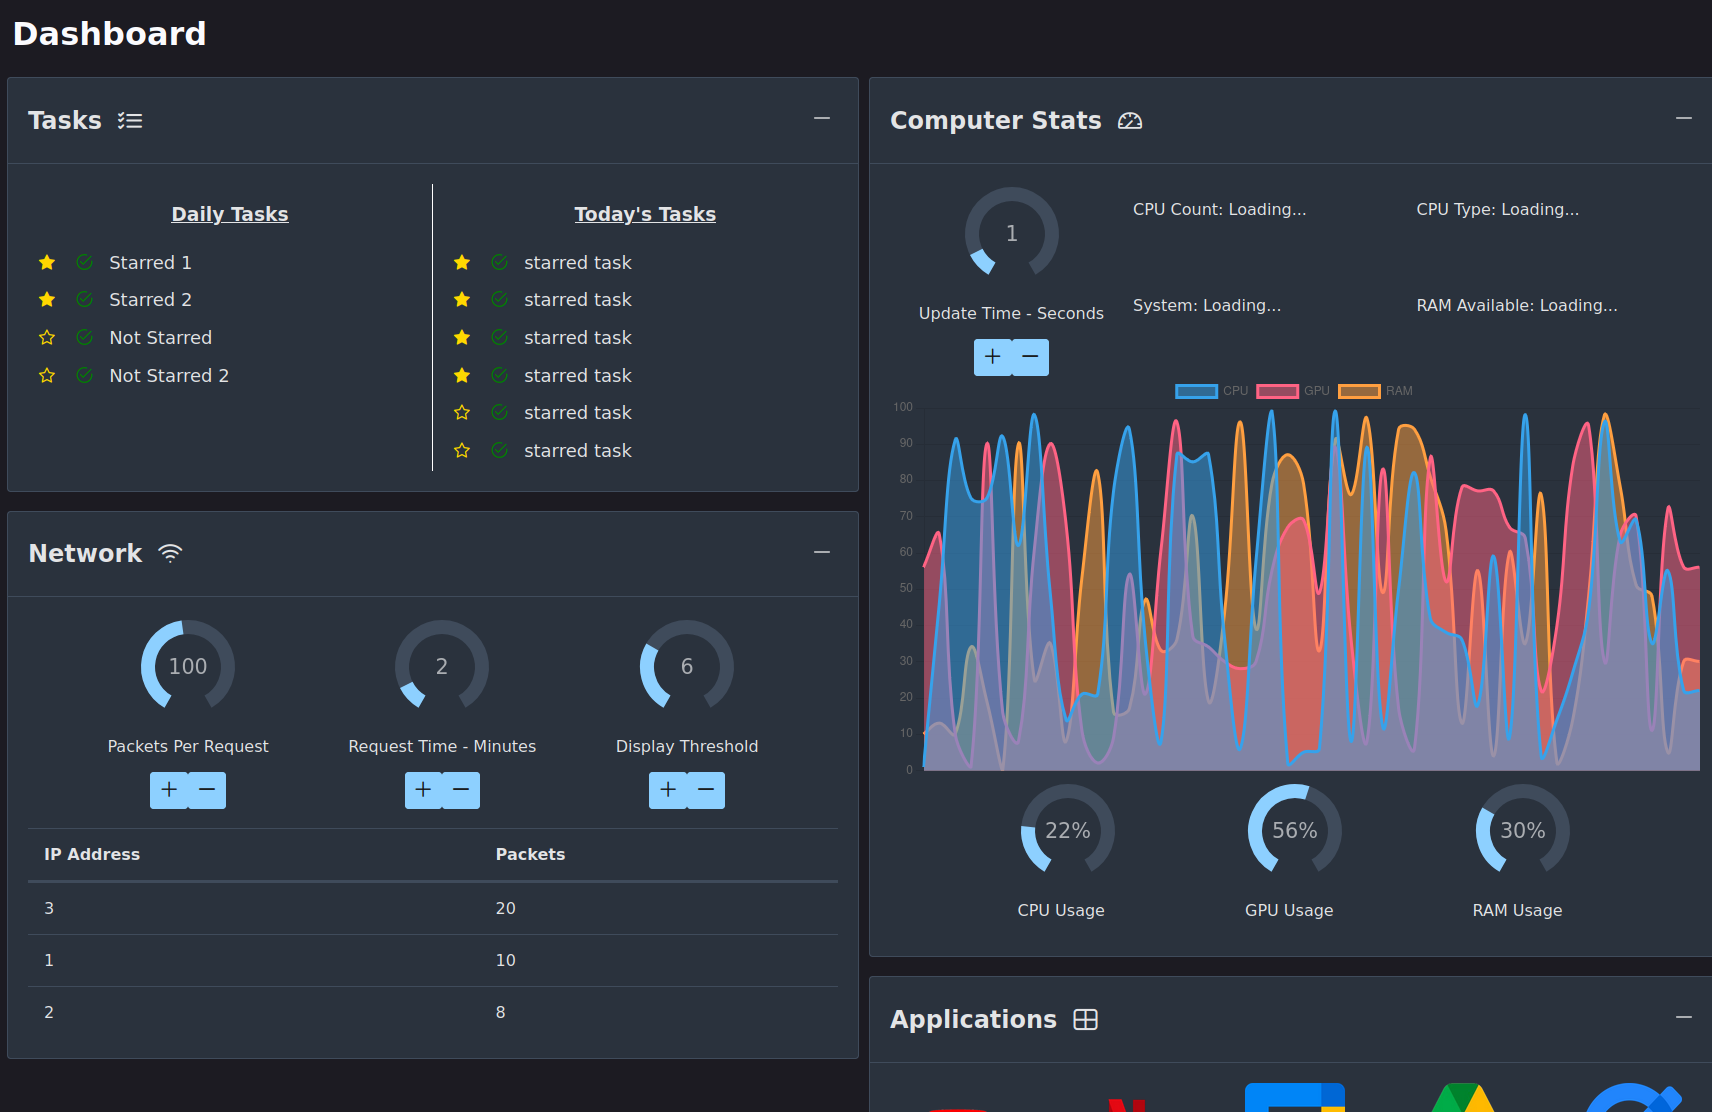
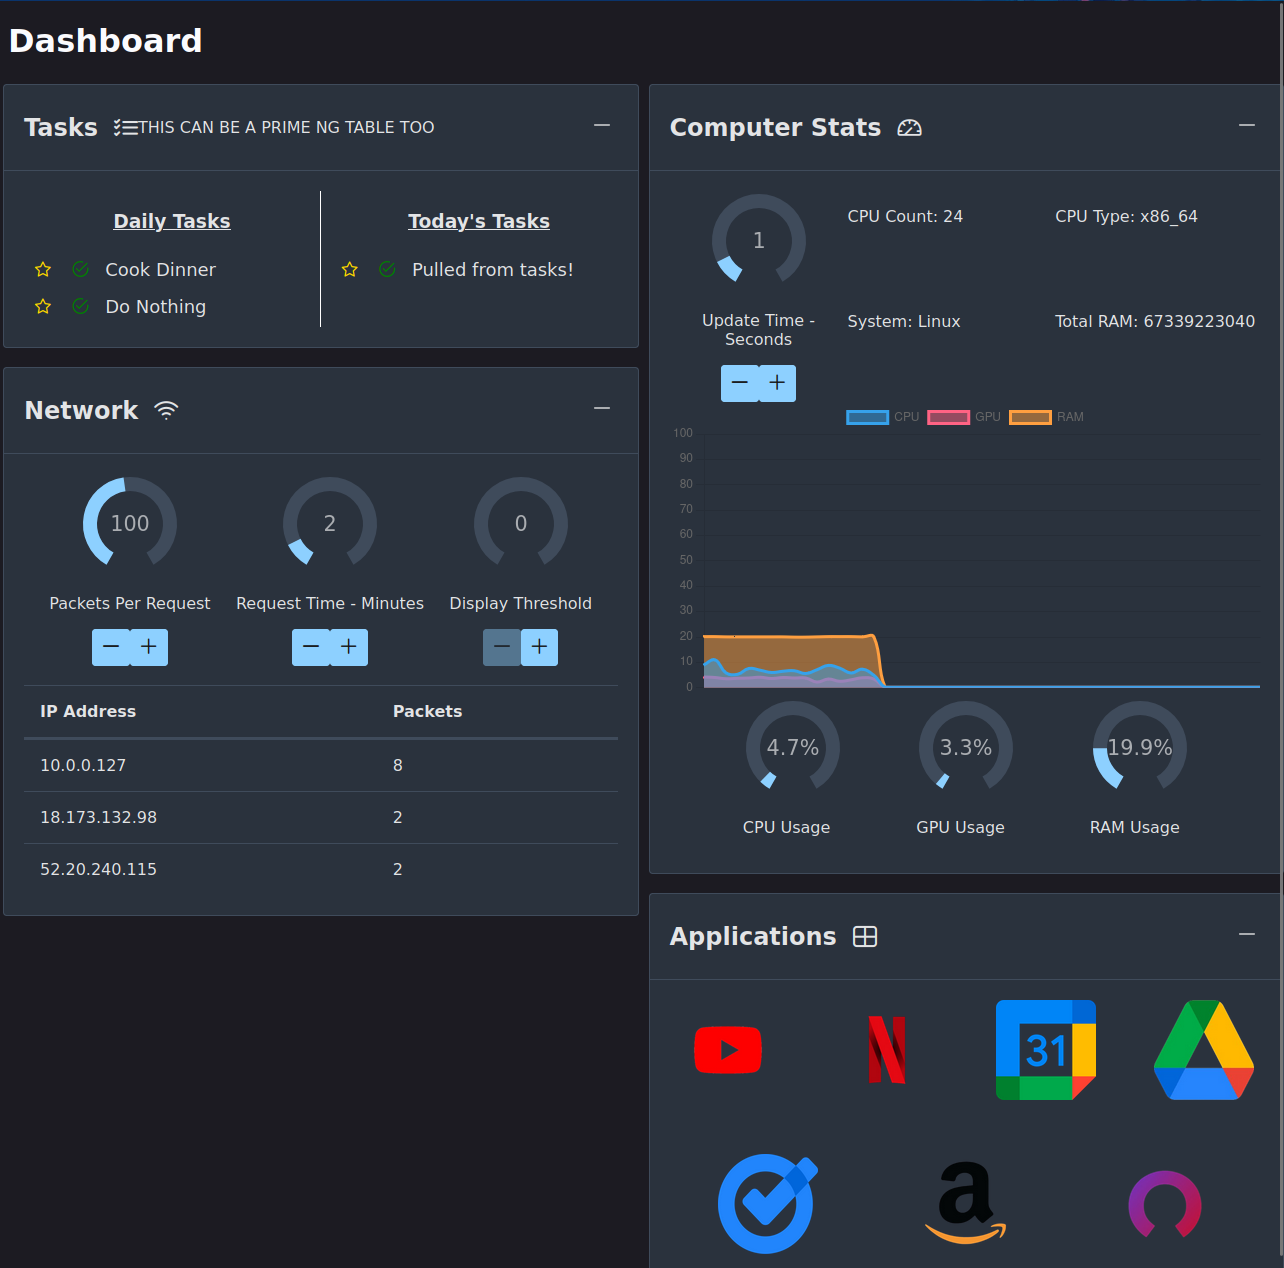
New pic who dis

diff --git a/src/app/computer-stats/computer-stats.component.ts b/src/app/computer-stats/computer-stats.component.ts
@@ -1,6 +1,6 @@
 /* eslint-disable @typescript-eslint/no-explicit-any */
 import { Component } from '@angular/core';
-import { repeat, Subscription } from 'rxjs';
+import { catchError, of, repeat, Subscription } from 'rxjs';
 import { BackendService } from '../Services/backend.service';
 
 enum TableCategory {
@@ -15,8 +15,6 @@ enum TableCategory {
   styleUrl: './computer-stats.component.scss'
 })
 export class ComputerStatsComponent {
-  UNDEFINED_TEXT: string = 'Loading...';
-  NULL_TEXT: string = 'Data Not Found';
   MIN_UPDATE_TIME: number = .5;
   MAX_UPDATE_TIME: number = 5;
   TIME_UPDATE_INCREMENT: number = .5;
@@ -28,10 +26,10 @@ export class ComputerStatsComponent {
 
   // https://primeng.org/chart
   // TODO: Table slows down application when closed pause it when tab closes??
-  cpuCountText: string;
-  cpuTypeText: string;
-  systemText: string;
-  totalRamText: string;
+  cpuCountText: string | null | undefined;
+  cpuTypeText: string | null | undefined;
+  systemText: string | null | undefined;
+  totalRamText: string | null | undefined;
 
   latestCpuUsage: number = 0;
   lastestGpuUsage: number = 0;
@@ -87,14 +85,17 @@ export class ComputerStatsComponent {
 
   constructor(backendService: BackendService) {
     // Assign Static Values Using Backend Service
-    this.cpuCountText = this.UNDEFINED_TEXT;
-    this.cpuTypeText = this.UNDEFINED_TEXT;
-    this.systemText = this.UNDEFINED_TEXT;
-    this.totalRamText = this.UNDEFINED_TEXT;
+    this.cpuCountText = undefined;
+    this.cpuTypeText = undefined;
+    this.systemText = undefined;
+    this.totalRamText = undefined;
 
     this.backendService = backendService;
       // Listen for new computer stats data
-      this.currentSubscription = backendService.computerData$.pipe(repeat({delay: this.updateTimeInSeconds * 1000})).subscribe((data: any) => {
+      this.currentSubscription = backendService.computerData$.pipe(
+        repeat({delay: this.updateTimeInSeconds * 1000}),
+      catchError(() => of(null)))
+      .subscribe((data: any) => {
         this.handleIncomingServiceData(data);
       });
   }
@@ -105,10 +106,10 @@ export class ComputerStatsComponent {
    */
   handleIncomingServiceData(data?: any | null) {
     if (!data) {
-      this.cpuCountText = this.NULL_TEXT;
-      this.systemText = this.NULL_TEXT;
-      this.cpuTypeText = this.NULL_TEXT;
-      this.totalRamText = this.NULL_TEXT;
+      this.cpuCountText = null;
+      this.systemText = null;
+      this.cpuTypeText = null;
+      this.totalRamText = null;
       return;
     }
     this.cpuCountText = data['cpu_count'].toString();
@@ -125,7 +126,9 @@ export class ComputerStatsComponent {
   updateTableObservable() {
     this.currentSubscription.unsubscribe();
     // Listen for new computer stats data
-    this.currentSubscription = this.backendService.computerData$.pipe(repeat({delay: this.updateTimeInSeconds * 1000})).subscribe((data: any) => {
+    this.currentSubscription = this.backendService.computerData$.pipe(
+      repeat({delay: this.updateTimeInSeconds * 1000}),
+      catchError(() => of(null))).subscribe((data: any) => {
       this.handleIncomingServiceData(data);
     });
   }

diff --git a/src/app/tasks-panel/tasks-panel.component.ts b/src/app/tasks-panel/tasks-panel.component.ts
@@ -1,7 +1,7 @@
 /* eslint-disable @typescript-eslint/no-explicit-any */
 import {Component} from '@angular/core';
 import { BackendService } from '../Services/backend.service';
-import { take } from 'rxjs';
+import { catchError, of, take } from 'rxjs';
 
 
 export class Task{
@@ -22,11 +22,11 @@ export class TasksPanelComponent {
   DAILY_TASK_TITLE: string = 'Dailies';
 
   // NOTE COULD HAVE SOMETHING LIKE A STREAK FOR DAILIES
-  dailyTasks: Task[] = [];
-  todaysTasks: Task[] = [];
+  dailyTasks: Task[] | undefined | null = [];
+  todaysTasks: Task[] | undefined | null = [];
 
   constructor(backendService: BackendService) {
-    backendService.tasksData$.pipe(take(1)).subscribe((data: any) => {
+    backendService.tasksData$.pipe(take(1), catchError(() => of(null))).subscribe((data: any) => {
       this.processIncomingTaskData(data);
     });
   }
@@ -36,28 +36,33 @@ export class TasksPanelComponent {
    * @param {any | null} data The new data coming in 
    */
   processIncomingTaskData(data: any | null) {
-    this.dailyTasks = [];
-    this.todaysTasks = [];
-
     if (!data) {
+      this.dailyTasks = null;
+      this.todaysTasks = null;
       return;
     }
     // Daily
     const dailyList: any = data.find((list: any) => list[0]['title'] === this.DAILY_TASK_TITLE);
     if (dailyList) {
+      this.dailyTasks = [];
       dailyList[1].forEach((task: any) => {
-        this.dailyTasks.push(new Task(false, task['title']));
+        this.dailyTasks!.push(new Task(false, task['title']));
       });
       this.dailyTasks = this.sortTasks(this.dailyTasks);
+    } else {
+      this.dailyTasks = null;
     }
 
     // Todays
     const todaysList: any = data.find((list: any) => list[0]['title'] !== this.DAILY_TASK_TITLE);
     if (todaysList) {
+      this.todaysTasks = [];
       todaysList[1].forEach((task: any) => {
-        this.todaysTasks.push(new Task(false, task['title']));
+        this.todaysTasks!.push(new Task(false, task['title']));
       });
       this.todaysTasks = this.sortTasks(this.todaysTasks);
+    } else {
+      this.todaysTasks = null;
     }
   }
 
@@ -81,7 +86,10 @@ export class TasksPanelComponent {
    * @param {number} index The index of the task 
    */
   onClickStar(isDaily: boolean, index: number): void {
-    const target: Task[] = isDaily ? this.dailyTasks : this.todaysTasks;
+    const target: Task[] | null | undefined = isDaily ? this.dailyTasks : this.todaysTasks;
+    if (!target) {
+      return;
+    }
     target[index].starred = !target[index].starred
     this.sortTasks(target);
   }
@@ -92,7 +100,10 @@ export class TasksPanelComponent {
    * @param {number} index The index of the task
    */
   onCheck(isDaily: boolean, index: number): void {
-    const target: Task[] = isDaily ? this.dailyTasks : this.todaysTasks;
+    const target: Task[] | null | undefined = isDaily ? this.dailyTasks : this.todaysTasks;
+    if (!target) {
+      return;
+    }
     target.splice(index, 1);
   }
 }

diff --git a/src/app/computer-stats/computer-stats.component.html b/src/app/computer-stats/computer-stats.component.html
@@ -21,10 +21,21 @@
 
             <!-- CPU Count, CPU Type, System -->
             <div class="static-data">
-                <p>CPU Count: {{cpuCountText}}</p>
-                <p>CPU Type: {{cpuTypeText}}</p>
-                <p>System: {{systemText}}</p>
-                <p>Total RAM: {{totalRamText}}</p>
+                <p *ngIf="cpuCountText">CPU Count: {{cpuCountText}}</p>
+                <p *ngIf="cpuCountText === undefined">CPU Count: <i class="pi pi-spinner pi-spin" title="Loading"></i></p>
+                <p *ngIf="cpuCountText === null">CPU Count: <i class="pi pi-exclamation-triangle" title="Unable to Load CPU Count"></i></p>
+
+                <p *ngIf="cpuTypeText">CPU Type: {{cpuTypeText}}</p>
+                <p *ngIf="cpuTypeText === undefined">CPU Type: <i class="pi pi-spinner pi-spin" title="Loading"></i></p>
+                <p *ngIf="cpuTypeText === null">CPU Type: <i class="pi pi-exclamation-triangle" title="Unable to Load CPU Type"></i></p>
+
+                <p *ngIf="systemText">System: {{systemText}}</p>
+                <p *ngIf="systemText === undefined">System: <i class="pi pi-spinner pi-spin" title="Loading"></i></p>
+                <p *ngIf="systemText === null">System: <i class="pi pi-exclamation-triangle" title="Unable to Load System Type"></i></p>
+                
+                <p *ngIf="totalRamText">Total RAM: {{totalRamText}}</p>
+                <p *ngIf="totalRamText === undefined">Total RAM: <i class="pi pi-spinner pi-spin" title="Loading"></i></p>
+                <p *ngIf="totalRamText === null">Total RAM: <i class="pi pi-exclamation-triangle" title="Unable to Load Total RAM"></i></p>
             </div>
         </div>
         <div class="dynamic-data">

diff --git a/src/app/network-stats/network-stats.component.ts b/src/app/network-stats/network-stats.component.ts
@@ -1,7 +1,7 @@
 /* eslint-disable @typescript-eslint/no-explicit-any */
 import { Component } from '@angular/core';
 import { BackendService } from '../Services/backend.service';
-import { repeat, Subscription } from 'rxjs';
+import { catchError, of, repeat, Subscription } from 'rxjs';
 
 export class IpData {
   ip: string;
@@ -36,14 +36,14 @@ export class NetworkStatsComponent {
   backendService: BackendService;
   currentSubscription: Subscription;
 
-  topIps: IpData[] = [];
+  topIps: IpData[] | null | undefined = undefined;
   allIps: IpData[] = [];
 
   constructor(backendService: BackendService) {
     this.backendService = backendService;
     // Start Network Subscription
     this.currentSubscription = backendService.networkData$.pipe(
-      repeat({delay: this.updateTimeInMinutes * 1000 * 60})
+      repeat({delay: this.updateTimeInMinutes * 1000 * 60}), catchError(() => of(null)),
     ).subscribe((data: unknown) => {
       this.processIncomingNetworkData(data);
     });
@@ -55,6 +55,7 @@ export class NetworkStatsComponent {
    */
   processIncomingNetworkData(data?: any | null) {
     if (!data) {
+      this.topIps = null;
       return;
     }
     this.allIps = [];
@@ -79,7 +80,7 @@ export class NetworkStatsComponent {
     this.currentSubscription.unsubscribe();
     // Update Subscription
     this.currentSubscription = this.backendService.networkData$.pipe(
-      repeat({delay: this.updateTimeInMinutes * 1000 * 60})
+      repeat({delay: this.updateTimeInMinutes * 1000 * 60}), catchError(() => of(null)),
     ).subscribe((data: any) => {
       this.processIncomingNetworkData(data);
     });

diff --git a/src/app/network-stats/network-stats.component.html b/src/app/network-stats/network-stats.component.html
@@ -49,7 +49,7 @@
         </div>
     </div>
 <br>
-    <p-table [value]="topIps">
+    <p-table *ngIf="topIps" [value]="topIps">
         <ng-template pTemplate="header">
             <tr>
                 <th>IP Address</th>
@@ -63,5 +63,8 @@
             </tr>
         </ng-template>
     </p-table>
-    
+
+    <i *ngIf="topIps === undefined" class="pi pi-spinner pi-spin" style="font-size: 2.5rem" title="Loading Network Packets"></i>
+
+    <i *ngIf="topIps === null" class="pi pi-exclamation-triangle" style="font-size: 2.5rem; position: relative; left: 50%;" title="Unable to Load Network Packets"></i>
 </p-panel>

diff --git a/src/app/tasks-panel/tasks-panel.component.html b/src/app/tasks-panel/tasks-panel.component.html
@@ -2,6 +2,7 @@
     <ng-template pTemplate="header">
         <h2>Tasks</h2>
         <i class="pi pi-list-check header-icon"></i>
+        <p>THIS CAN BE A PRIME NG TABLE TOO</p>
     </ng-template>
     <div id="body">
         <div id="daily-tasks">
